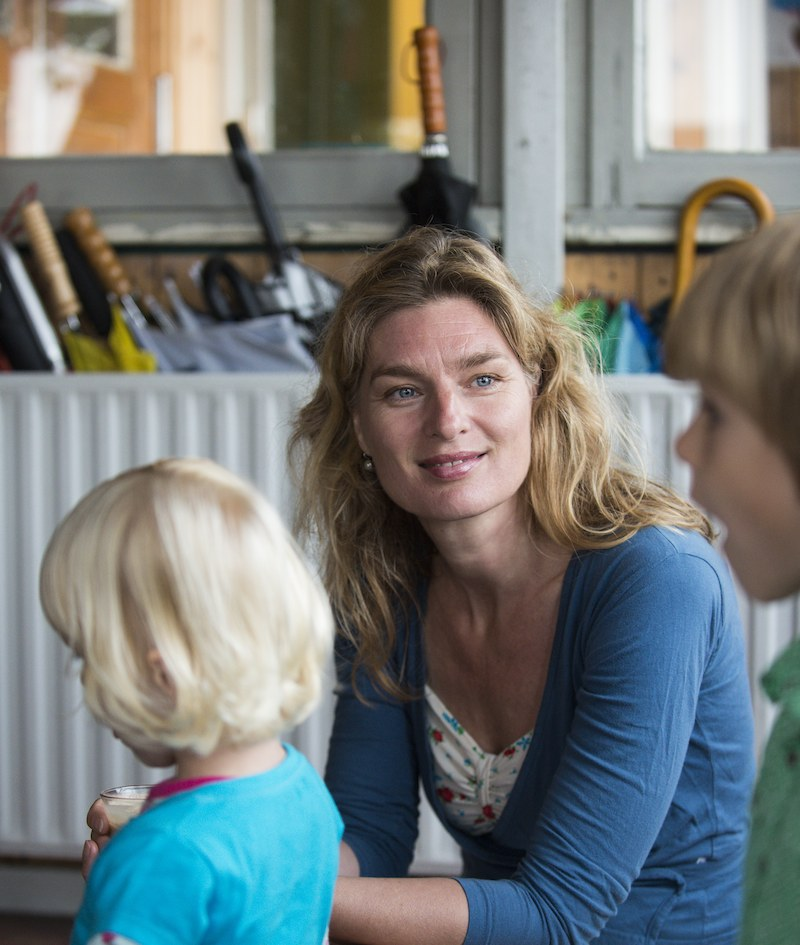
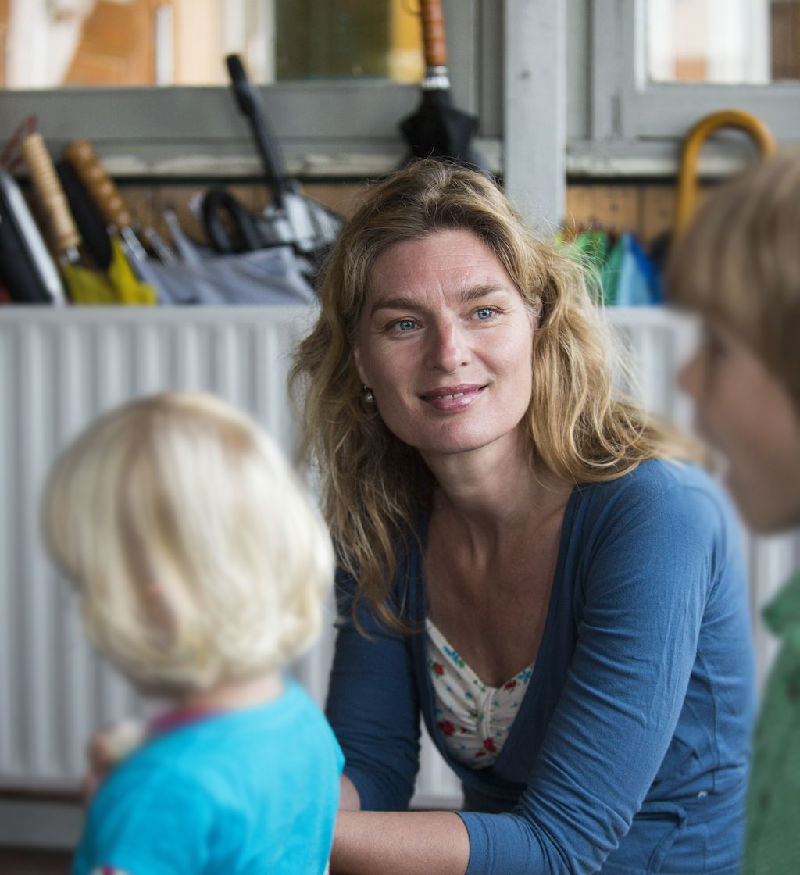
mobile first

diff --git a/style/style.css b/style/style.css
@@ -1,7 +1,5 @@
 * {
-   -moz-box-sizing:    border-box;   /* Firefox 1, probably can drop this */
-   -webkit-box-sizing: border-box;   /* Safari 3-4, also probably droppable */
-    box-sizing:        border-box;   /* Everything else */
+    box-sizing: border-box;
 }
 
 @font-face {
@@ -18,7 +16,7 @@ body{
     line-height: 1.4em; /*line height beetje ophogen, leest beter */
     letter-spacing: -0.01em; /*ietsiepietsie afspatieëren */
     color: #333;
-    background: #eee;
+    background: url("../img/emmy_tessel_psychiater_320.jpg") #eee no-repeat center top fixed;
 }
 a{
     color: #333;
@@ -37,6 +35,8 @@ h1{
 }
 h2{
     font-size: 1.4em;
+    line-height: 0.95em;
+    letter-spacing: -0.01em;
 }
 ul{
     margin: 0.4em 0;
@@ -47,56 +47,65 @@ ul li{
     
 }
 
+@media all and (min-width: 1000px) {
+    body{
+        background-image: url("../img/emmy_tessel_psychiater_1024.jpg");
+        max-width: 1024px;        
+    }
+    main {
+        padding-top: 1em;
+    }
+    main section{
+        margin: 1em 1.6em;
+        padding: 1em;
+        max-width: 20em;
+    }
+    header p.circle{
+        font-size: 1.4em;
+        width: 6em;
+        height: 6em;
+        margin-left: 12.4em;
+        margin-top: -2.4em;
+    }
+    header h2{
+        margin-top: -3.6em;
+    }
+}
 
 main{
-    background: url("../img/emmy_tessel_psychiater_1024.jpg") no-repeat center top;   
-    display: block;
-    min-height: 900px;
-    max-width: 1024px;
+    padding-top: 0.6em;
+    max-width: 320px;
     margin: 0 auto;
-    padding-top: 1em;
-}
-header p:nth-of-type(1){
-    background: #46e2ff;
-    font-size: 1.4em;
-    border-radius: 50%;
-    width: 6em;
-    height: 6em;
-    text-align: center;
-    margin-left: 12.4em;
-    margin-top: -2.4em;
-    position: relative;
-}
-header p:nth-of-type(1) span{
-    display: block;
-    padding-top: 2em;
-}
-header p:nth-of-type(1):before {
-    display: none;
-   content:"";
-   position: absolute;
-   left: 2.3em;
-   top: 17.3em;
-   width: 0;
-   height: 0;
-   border-top: 1em solid transparent;
-   border-left: 1.6em solid #46e2ff;
-   border-bottom: 1em solid transparent;
-}
-header h2{
-    margin-top: -3.6em;
 }
 main section{
-    margin: 1em 1.6em;
-    padding: 1em;
+    margin: 0.6em;
+    padding: 0.6em;
+    max-width: 20em;
     -moz-border-radius: 2em; 
     -webkit-border-radius: 2em;
     border-radius: 2em; 
-    max-width: 20em;
-    /* background-color: #eee;
-    opacity: 0.8; */
     background: rgba(255,255,255,0.9); 
 }
+header p.circle{
+    background: #46e2ff;
+    font-size: 1.2em;
+    border-radius: 50%;
+    width: 5.8em;
+    height: 5.8em;
+    text-align: center;
+    margin-left: 10.2em;
+    margin-top: 0.2em;
+    position: relative;
+}
+header p.circle span{
+    display: block;
+    padding-top: 1.6em;
+}
+header h2{
+    max-width: 10em;
+    margin-top: -5.2em;
+}
+
 section#contact{
     background-color: #46e2ff;
 }
@@ -123,51 +132,40 @@ section#contact h2{
 
 
 footer{
-    margin: 4em auto;
-    /*
-    -webkit-columns: 2;
-   -moz-columns: 2;
-        columns: 2;
-    */
-    color: #999;
-    max-width: 1024px;
+    color: #777;
+    max-width: 320px;
+    margin: 2em auto;
+    background: #eee;
+    padding-top: 2em;
+    font-size: 1em;
 }
 footer header{
     margin-left: 2em;
-    margin-bottom: 4em;  
+    margin-bottom: 2em;  
 }
 footer ul{
     font-size: 0.7em;   
     display: none;
 }
-footer header p:nth-of-type(1){
+footer header p.circle{
     background: #eee;
-    border: 1px #999 solid;
+    border: 1px #888 solid;
     width: 5.5em;
     height: 5.5em;
-    margin-left: 16em;
-    margin-top: -1.6em;
+    margin-left: 10em;
+    margin-top: 0.6em;
     font-size: 1.2em;
 }
-footer header p:nth-of-type(1) span{
+footer header p.circle span{
     padding-top: 1.6em;
 }
 footer header h2{
     width: 16em;
-    margin-top: -3em;
+    margin-top: -5em;
 }
 footer section {
     display: inline-block;
     vertical-align: top;
-    width: 44%;
-    max-width: 36em;
     margin-left: 2em;
 }
-footer section:first-child{
--webkit-column-break-inside: avoid;
-          page-break-inside: avoid;
-               break-inside: avoid;
--webkit-column-break-after: always;
-          page-break-after: always;
-               break-after: always;
-}
+

diff --git a/index.html b/index.html
@@ -4,7 +4,7 @@
         <meta charset="UTF-8" />
         <meta name="viewport" content="width=device-width,initial-scale=1">
         
-        <title>Tessel Psychiatrie - Voor alle leeftijden</title>
+        <title>Tessel Psychiatrie - voor kind, jeugd & gezin en volwassenen</title>
         <link rel="stylesheet" href="style/style.css" />
     </head>
     <body>
@@ -13,7 +13,7 @@
             <section>
                 <header>
                     <h1>Tessel Psychiatrie *</h1>
-                    <p><span>* voor alle leeftijden</span></p>
+                    <p class="circle"><span>* voor alle leeftijden</span></p>
                     <h2>Praktijk voor diagnostiek, behandeling en coaching</h2>
                 </header>
                 <p>De praktijk heeft specifieke ervaring met jongeren vanaf 12 jaar, 
@@ -36,7 +36,7 @@
     <footer id="kwaliteitseisen">
         <header id="vergoeding" >
             <h1>Tessel Psychiatrie *</h1>
-            <p><span>* voor alle leeftijden</span></p>
+            <p class="circle"><span>* voor alle leeftijden</span></p>
             <h2>Praktijk voor diagnostiek, behandeling en coaching</h2>
         </header>
         <section>
@@ -44,11 +44,7 @@
             <p>Ik ben als arts en psychiater geregistreerd in het BIG register, 
                 waarmee ik voldoe aan vastgelegde kwaliteitseisen van de overheid en verantwoording af dien te leggen aan het tuchtcollege voor de gezondheidszorg. 
                 Ik ben lid van de Nederlandse Vereniging voor Psychiatrie (NVvP) en de Koninklijke Nederlandsche Maatschappij tot bevordering der Geneeskunst (KNMG) 
-                en houd me aan de door hen gestelde beroepscode en kwaliteitscriteria.
-            <!--
-                en voldoe aan hun beroepscode 
-                en de door hen gestelde kwaliteitseisen.
-            -->    
+                en houd me aan de door hen gestelde beroepscode en kwaliteitscriteria.  
             </p>
             <p>
                 <ul>
@@ -61,15 +57,18 @@
             </p>
         </section>
         <section>
-            <h3>Vergoeding boven de 18 jaar</h3>
+            <h3>Vergoeding behandeling boven de 18 jaar</h3>
             <p>Dit vindt plaats via de zorgverzekeraar. 
-                De praktijk heeft contracten met alle belangrijke koepelorganisaties van verzekeringsmaatschappijen.</p>
-            <h3>Vergoeding onder de 18 jaar</h3>
+                De praktijk heeft contracten met alle belangrijke koepelorganisaties van verzekeringsmaatschappijen.
+            </p>
+            <h3>Vergoeding behandeling onder de 18 jaar</h3>
             <p>Dit vindt plaats via de gemeente. 
-                De praktijk heeft een contract voor de gehele regio Amsterdam en omstreken.</p>
+                De praktijk heeft een contract voor de gehele regio Amsterdam en omstreken.
+            </p>
             <h3>Coaching </h3>
             <p>Dit betreft vragen over persoonlijke en professionele ontwikkeling die buiten het bestek van de geestelijke gezondheidszorg vallen. 
-                Hierbij geldt een overeengekomen uurtarief, exclusief BTW. </p>
+                Hierbij geldt een overeengekomen uurtarief, exclusief BTW.
+            </p>
         </section>
     </footer>
 
